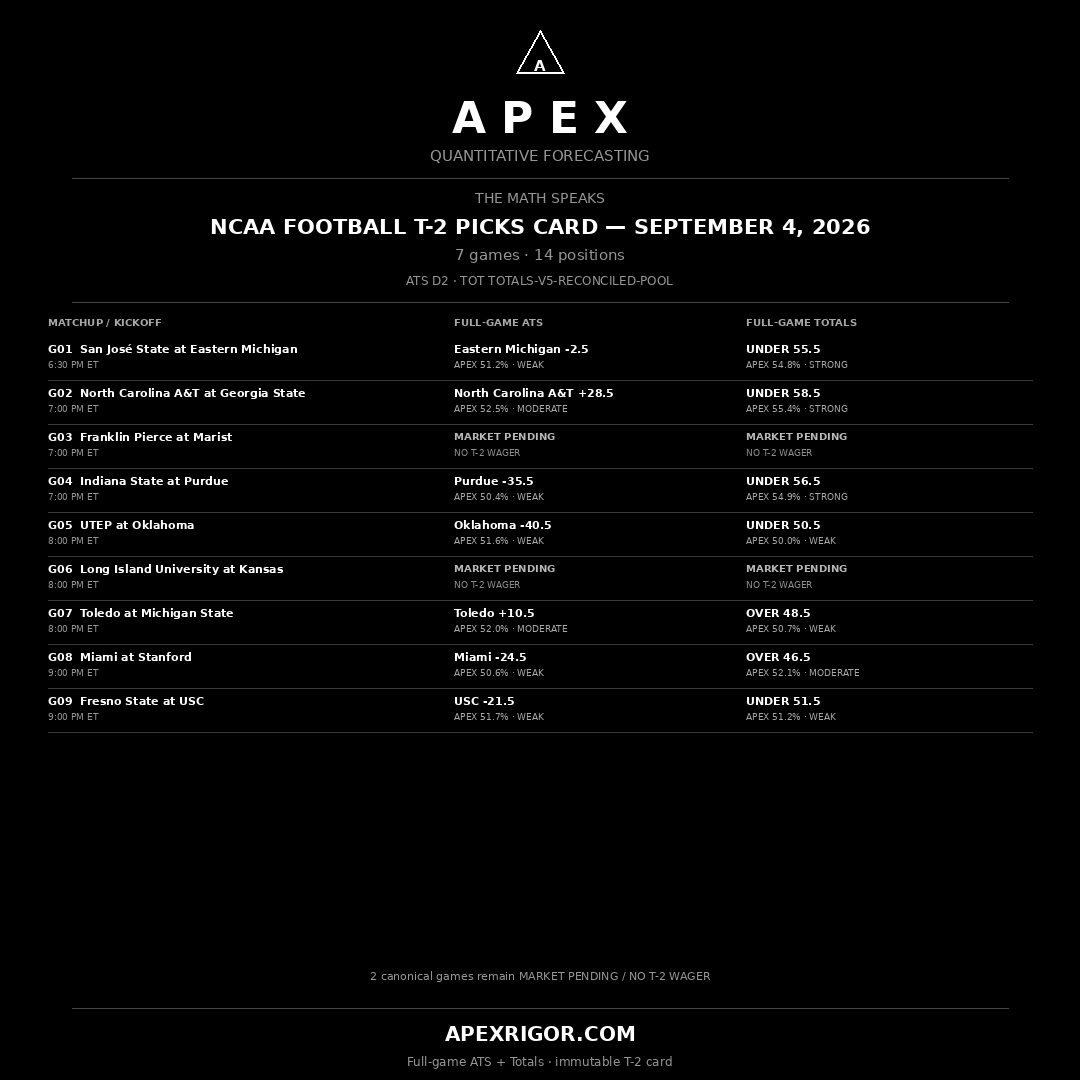
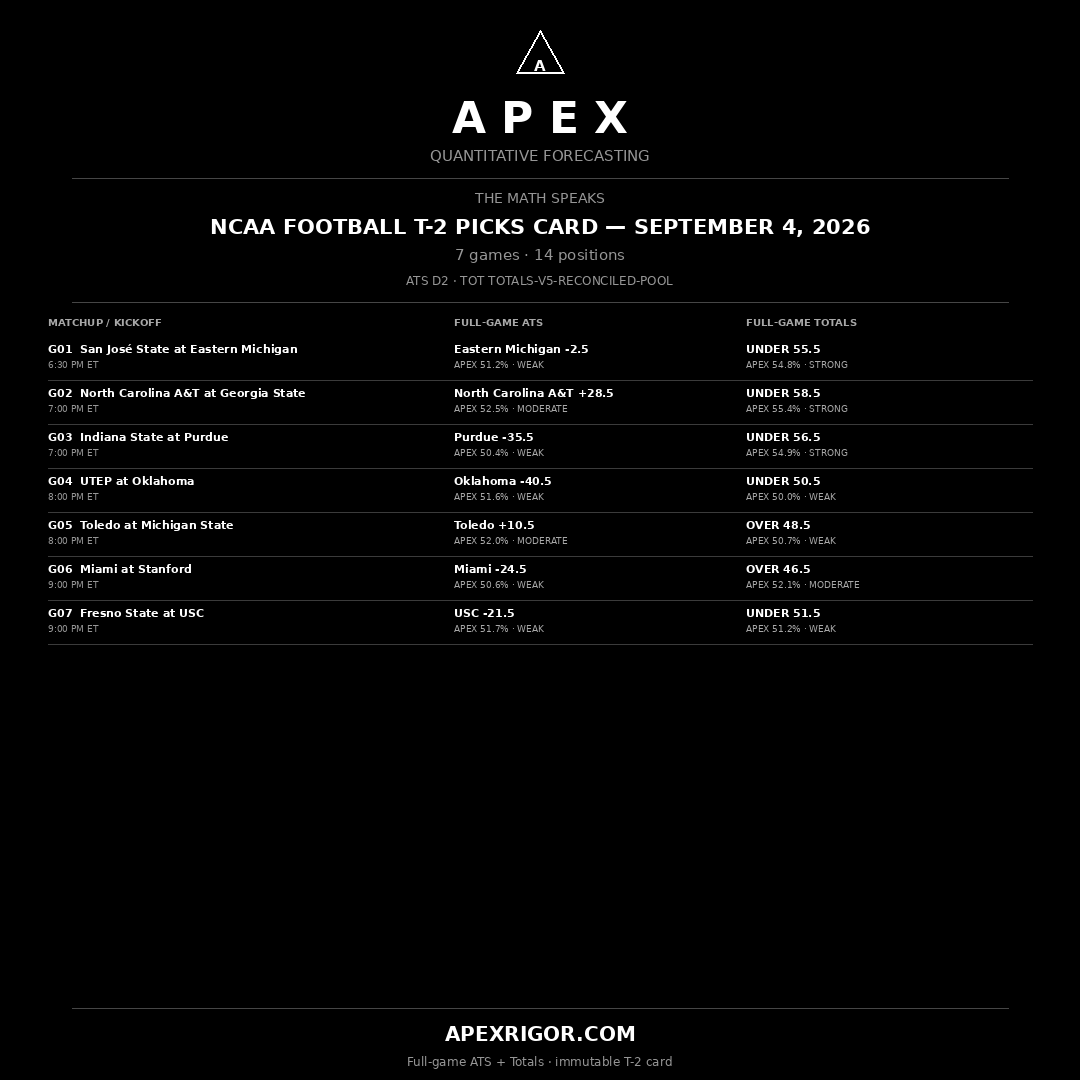
Present issued NCAA T2 positions only

diff --git a/ncaaf/index.html b/ncaaf/index.html
@@ -79,15 +79,14 @@ fetch("/data/ncaaf_today.json",{cache:"no-store"}).then(r=>{if(!r.ok)throw new E
  const epoch=doc.active_engine_epoch||{};
  const ats=((epoch.ATS||{}).model_id)||"D2";
  const totals=((epoch.TOTALS||{}).model_id)||"TOTALS-V5-RECONCILED-POOL";
- const pending=visibleGames.filter(g=>!Array.isArray(g.positions)||g.positions.length===0).length;
- document.getElementById("slate-meta").textContent=dateLabel(s.slate_date_et)+" · "+visibleGames.length+" GAMES · "+positions+" POSITIONS · "+pending+" MARKET PENDING · ATS MODEL "+ats+" · TOT MODEL "+totals;
+ document.getElementById("slate-meta").textContent=dateLabel(s.slate_date_et)+" · "+visibleGames.length+" GAMES · "+positions+" POSITIONS · ATS MODEL "+ats+" · TOT MODEL "+totals;
  const shell=document.querySelector(".shell");
  if(shell){shell.setAttribute("data-slate-date",s.slate_date_et);shell.setAttribute("data-public-issuance",positions>0?"true":"false");}
  document.getElementById("games").innerHTML=visibleGames.map((g,i)=>{
    const issuedPositions=(Array.isArray(g.positions)?g.positions:[]).filter(p=>p&&p.market_type);
    const clock=g.schedule_time_status==="UNRESOLVED_TBD"?"TIME TBA":esc(g.kickoff_display_et||"TIME TBA");
    const byMarket=Object.fromEntries(issuedPositions.map(p=>[p.market_type,p]));
-   const panels=["ATS","TOTALS"].map(market=>byMarket[market]?issuedPanel(byMarket[market]):pendingPanel(market)).join("");
+   const panels=["ATS","TOTALS"].map(market=>byMarket[market]?issuedPanel(byMarket[market]):"").join("");
    const context=esc(String(g.fbs_fcs_classification||"").replaceAll("_"," "))+" · "+esc(g.venue||"Venue not published");
    return '<article class="game-module" data-game="'+esc(g.game_id)+'" data-game-state="'+(issuedPositions.length?'ISSUED':'MARKET_PENDING')+'">'
     +'<header class="game-header"><div class="game-num mono">G'+String(i+1).padStart(2,"0")+'</div><div class="game-meta">'
